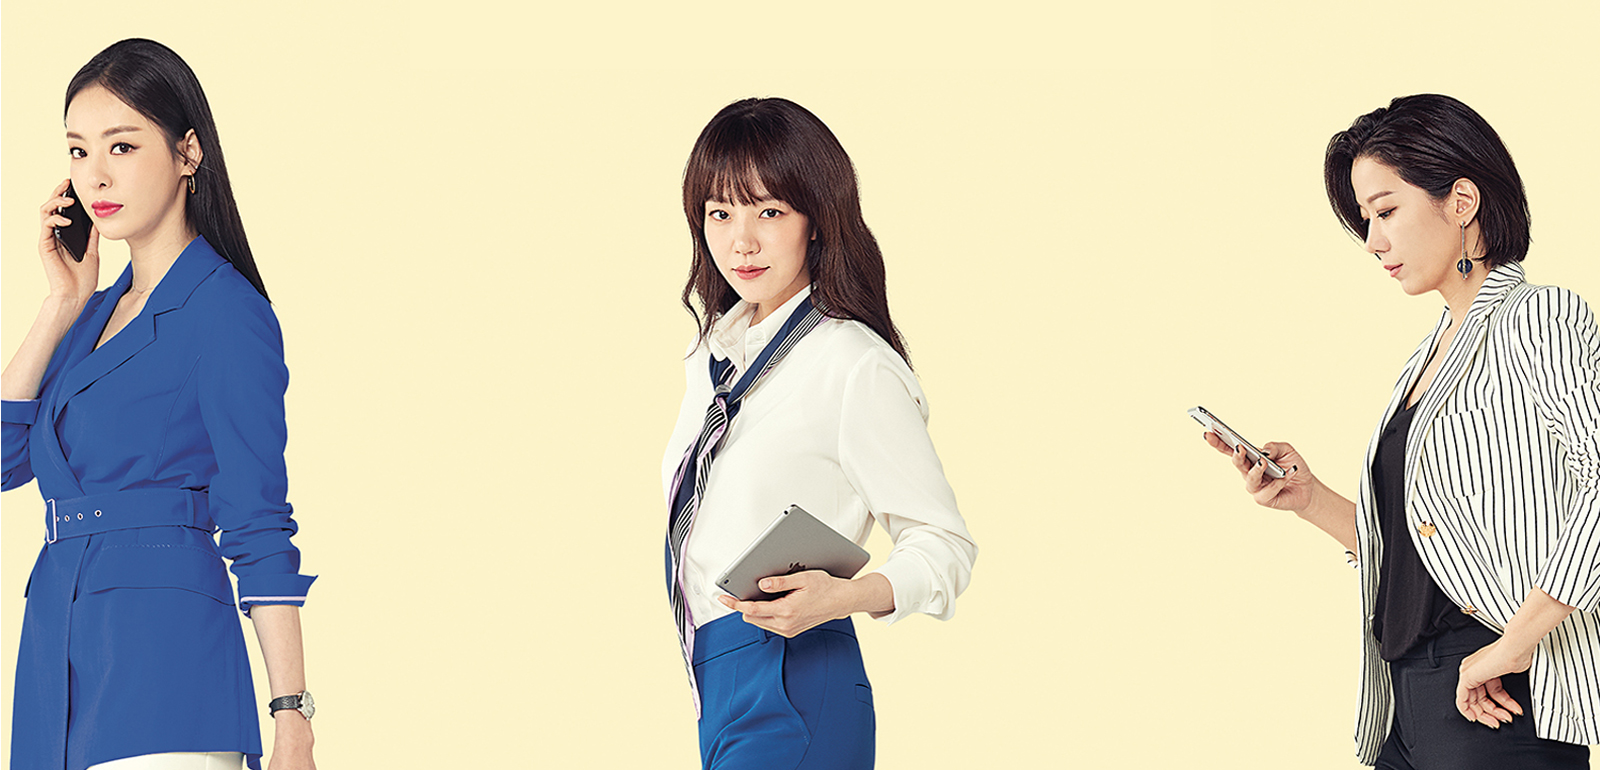
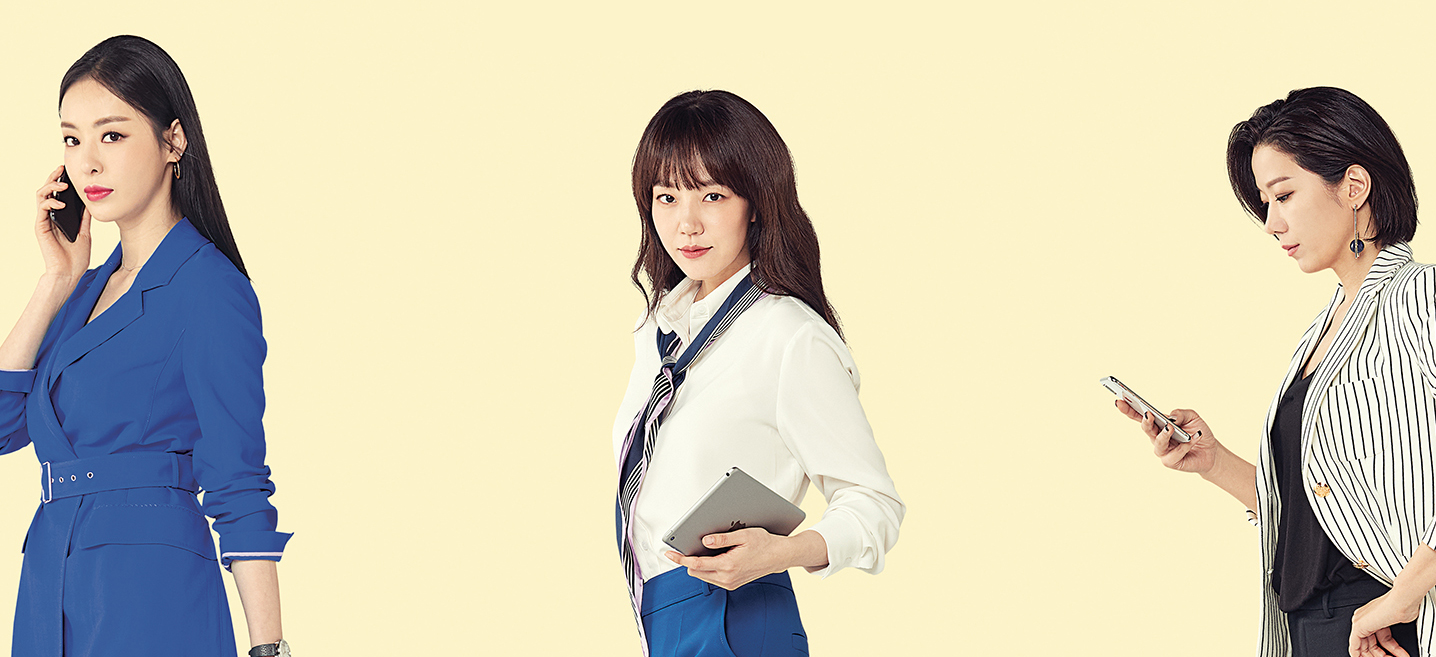
0831

Changed region(s): [[0.7354, 0.1218, 1.0, 1.0], [0.3983, 0.1218, 0.6435, 1.0], [0.0, 0.0304, 0.2145, 1.0]]

diff --git a/project09/index.html b/project09/index.html
@@ -27,7 +27,7 @@
             <section class="MainVisual">
                 <div class="mainSlider">
                     <figure>
-                        <img src="./img/mainimg.jpg" alt="">
+                        <img src="./img/main01.jpg" alt="">
                     </figure>
                 </div>
                 <div class="mainTitle">

diff --git a/project09/css/www.css b/project09/css/www.css
@@ -44,6 +44,10 @@ span {
     margin: 0 auto;
 }
 
+.mainSlider figure img {
+    width: 1600px;
+}
+
 .mainTitle {
     position: absolute;
     bottom: -50px;
